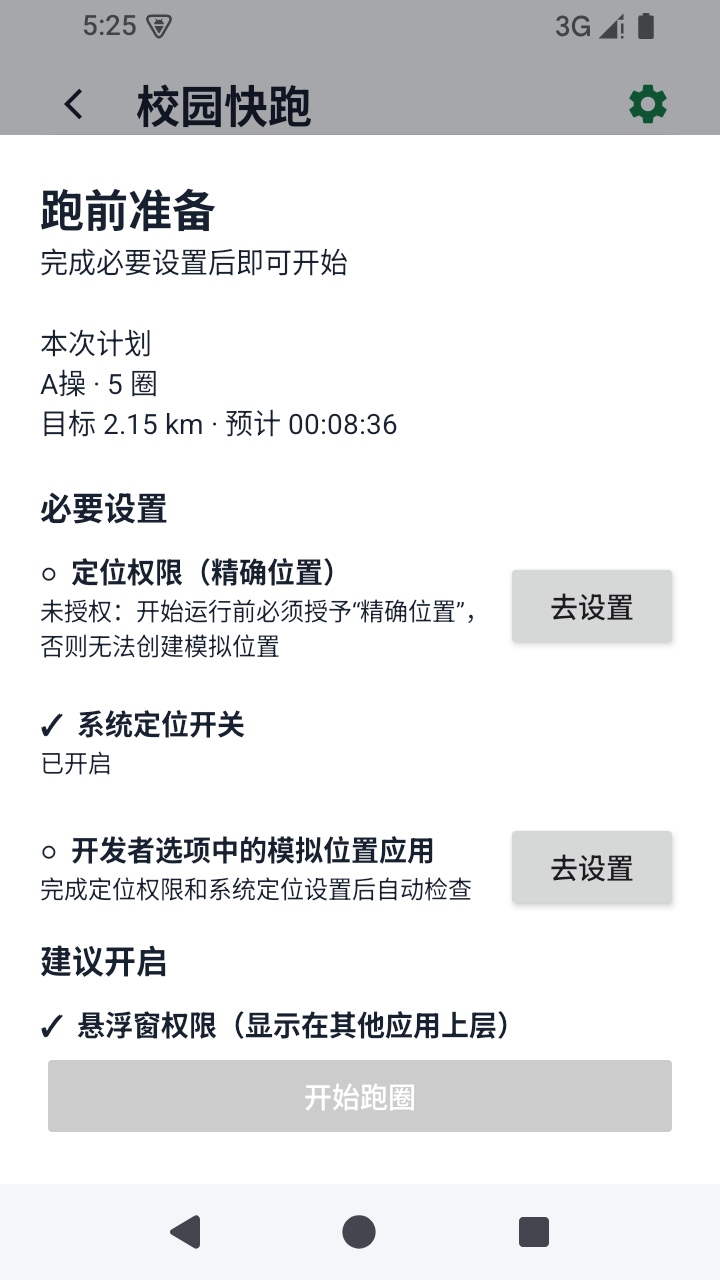
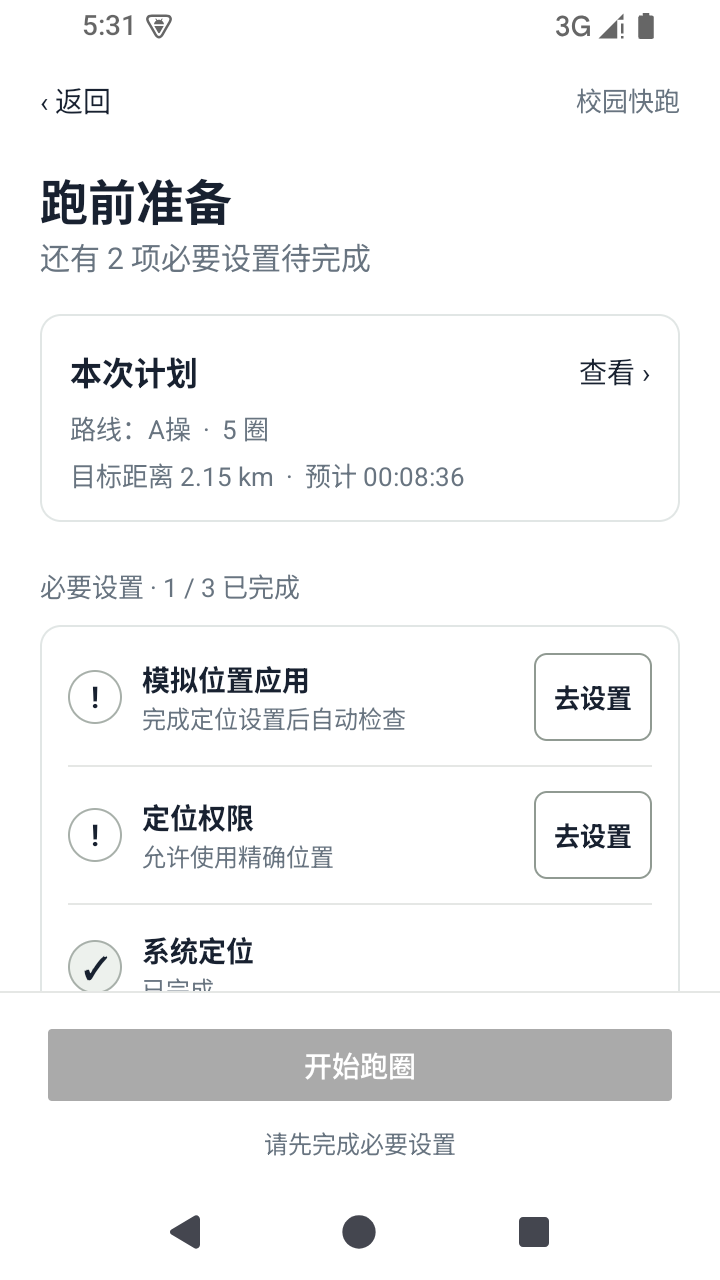
style: refine run readiness screen

diff --git a/app/src/main/java/org/localroute/app/ui/CampusRunActivity.java b/app/src/main/java/org/localroute/app/ui/CampusRunActivity.java
@@ -1,6 +1,9 @@
 package org.localroute.app.ui;
 
 import android.Manifest;
+import android.app.Dialog;
+import android.graphics.drawable.GradientDrawable;
+import android.view.Window;
 import android.animation.Animator;
 import android.animation.AnimatorListenerAdapter;
 import android.animation.ValueAnimator;
@@ -158,7 +161,7 @@ public final class CampusRunActivity extends AppCompatActivity {
     /** 旧版单路线存储的迁移 ID；新路线使用 {@link RouteRepository#newRouteId()}。 */
     private static final String ROUTE_CUSTOM_ID = "custom";
 
-    @Nullable private BottomSheetDialog readinessDialog;
+    @Nullable private Dialog readinessDialog;
     @Nullable private PendingStart readinessPlan;
     private boolean readinessReturning;
     private boolean readinessPermissionRequested;
@@ -1381,18 +1384,26 @@ public final class CampusRunActivity extends AppCompatActivity {
     }
 
     private void showReadiness() {
-        if (readinessPlan == null) return;
-        BottomSheetDialog sheet = new BottomSheetDialog(this);
-        readinessDialog = sheet;
-        sheet.setOnDismissListener(d -> {
-            if (readinessDialog == sheet) {
+        if (readinessPlan == null || readinessDialog != null) return;
+        Dialog dialog = new Dialog(this, android.R.style.Theme_Material_Light_NoActionBar);
+        readinessDialog = dialog;
+        dialog.setOnDismissListener(d -> {
+            if (readinessDialog == dialog) {
                 readinessDialog = null;
                 readinessPlan = null;
                 readinessReturning = false;
             }
         });
-        sheet.show();
         renderReadiness();
+        dialog.show();
+        Window window = dialog.getWindow();
+        if (window != null) {
+            window.setLayout(ViewGroup.LayoutParams.MATCH_PARENT, ViewGroup.LayoutParams.MATCH_PARENT);
+            window.setStatusBarColor(Color.WHITE);
+            window.setNavigationBarColor(Color.WHITE);
+            WindowCompat.getInsetsController(window, window.getDecorView()).setAppearanceLightStatusBars(true);
+            WindowCompat.getInsetsController(window, window.getDecorView()).setAppearanceLightNavigationBars(true);
+        }
     }
 
     private TextView readinessText(String text, float size, boolean bold) {
@@ -1404,58 +1415,171 @@ public final class CampusRunActivity extends AppCompatActivity {
         return view;
     }
 
+    private GradientDrawable readinessBackground(int color, int stroke, int radius) {
+        GradientDrawable background = new GradientDrawable();
+        background.setColor(color);
+        background.setCornerRadius(dp(radius));
+        if (stroke != Color.TRANSPARENT) background.setStroke(dp(1), stroke);
+        return background;
+    }
+
+    private void readinessSpace(LinearLayout parent, int height) {
+        parent.addView(new View(this), new LinearLayout.LayoutParams(1, dp(height)));
+    }
+
+    private void readinessDivider(LinearLayout parent) {
+        View divider = new View(this);
+        divider.setBackgroundColor(0xffe5e7e5);
+        parent.addView(divider, new LinearLayout.LayoutParams(ViewGroup.LayoutParams.MATCH_PARENT, dp(1)));
+    }
+
     private void renderReadiness() {
         if (readinessDialog == null || readinessPlan == null) return;
         boolean ready = readinessPassed();
         PendingStart plan = readinessPlan;
+        List<SettingsInspector.Check> checks = SettingsInspector.inspect(this);
+        boolean mockOk = snapshot.isActive() && snapshot.singlePoint()
+                || readinessProbe == SettingsInspector.MockProbeResult.ALLOWED
+                || readinessProbe == SettingsInspector.MockProbeResult.ALLOWED_AFTER_CLEANUP;
+        int completed = mockOk ? 1 : 0;
+        for (SettingsInspector.Check check : checks) {
+            if ((check.item() == SetupItem.LOCATION_PERMISSION || check.item() == SetupItem.LOCATION_SWITCH)
+                    && check.status() == SettingsInspector.Status.OK) completed++;
+        }
+        int pending = 3 - completed;
+        double meters = plan.route.lapMeters() * plan.loops;
+        String distance = CampusFormat.kilometers(meters);
+        String time = CampusFormat.time((long) (meters / plan.speedKmh * 3600d));
+        int ink = ContextCompat.getColor(this, R.color.campus_ink);
+        int muted = ContextCompat.getColor(this, R.color.campus_muted);
+        int border = ContextCompat.getColor(this, R.color.fm_border);
+
+        LinearLayout root = new LinearLayout(this);
+        root.setOrientation(LinearLayout.VERTICAL);
+        root.setBackgroundColor(Color.WHITE);
+        ViewCompat.setOnApplyWindowInsetsListener(root, (view, insets) -> {
+            Insets bars = insets.getInsets(WindowInsetsCompat.Type.systemBars());
+            view.setPadding(bars.left, bars.top, bars.right, bars.bottom);
+            return insets;
+        });
+
+        LinearLayout header = new LinearLayout(this);
+        header.setGravity(Gravity.CENTER_VERTICAL);
+        header.setPadding(dp(20), 0, dp(20), 0);
+        TextView back = readinessText("‹ 返回", 14, false);
+        back.setGravity(Gravity.CENTER_VERTICAL);
+        back.setOnClickListener(v -> readinessDialog.dismiss());
+        header.addView(back, new LinearLayout.LayoutParams(0, dp(52), 1));
+        TextView section = readinessText("校园快跑", 13, false);
+        section.setTextColor(muted);
+        header.addView(section);
+        root.addView(header);
+
+        ScrollView scroll = new ScrollView(this);
+        scroll.setFillViewport(false);
         LinearLayout content = new LinearLayout(this);
         content.setOrientation(LinearLayout.VERTICAL);
-        int pad = Math.round(20 * getResources().getDisplayMetrics().density);
-        content.setPadding(pad, pad, pad, pad);
-        content.addView(readinessText("跑前准备", 22, true));
-        content.addView(readinessText(ready ? "准备就绪，可以开始" : "完成必要设置后即可开始", 14, false));
-        double meters = plan.route.lapMeters() * plan.loops;
-        TextView summary = readinessText("本次计划\n" + plan.route.name() + " · " + plan.loops
-                + " 圈\n目标 " + CampusFormat.kilometers(meters) + " km · 预计 "
-                + CampusFormat.time((long) (meters / plan.speedKmh * 3600d)), 14, false);
-        summary.setPadding(0, pad, 0, pad);
+        content.setPadding(dp(20), dp(6), dp(20), dp(20));
+        content.addView(readinessText("跑前准备", 24, true));
+        TextView subtitle = readinessText(ready ? "准备就绪，可以开始" : "还有 " + pending + " 项必要设置待完成", 15, false);
+        subtitle.setTextColor(muted);
+        content.addView(subtitle);
+        readinessSpace(content, 18);
+
+        LinearLayout summary = new LinearLayout(this);
+        summary.setOrientation(LinearLayout.VERTICAL);
+        summary.setPadding(dp(15), dp(14), dp(15), dp(14));
+        summary.setBackground(readinessBackground(Color.WHITE, border, 10));
+        LinearLayout summaryHead = new LinearLayout(this);
+        summaryHead.setGravity(Gravity.CENTER_VERTICAL);
+        TextView planTitle = readinessText("本次计划", 16, true);
+        summaryHead.addView(planTitle, new LinearLayout.LayoutParams(0, ViewGroup.LayoutParams.WRAP_CONTENT, 1));
+        TextView details = readinessText("查看 ›", 14, false);
+        details.setPadding(dp(8), dp(4), 0, dp(4));
+        details.setOnClickListener(v -> new com.google.android.material.dialog.MaterialAlertDialogBuilder(this)
+                .setTitle("本次计划")
+                .setMessage("路线：" + plan.route.name() + " · " + plan.loops + " 圈\n目标距离 "
+                        + distance + " km · 预计 " + time + "\n配速 "
+                        + CampusFormat.paceWithUnit(3600d / plan.speedKmh))
+                .setPositiveButton("完成", null).show());
+        summaryHead.addView(details);
+        summary.addView(summaryHead);
+        TextView planLine = readinessText("路线：" + plan.route.name() + "  ·  " + plan.loops + " 圈", 13, false);
+        planLine.setTextColor(muted);
+        planLine.setPadding(0, dp(4), 0, 0);
+        summary.addView(planLine);
+        TextView planTotal = readinessText("目标距离 " + distance + " km  ·  预计 " + time, 13, false);
+        planTotal.setTextColor(muted);
+        planTotal.setPadding(0, dp(4), 0, 0);
+        summary.addView(planTotal);
         content.addView(summary);
-        content.addView(readinessText("必要设置", 16, true));
-        for (SettingsInspector.Check check : SettingsInspector.inspect(this)) {
-            if (!check.item().blocking()) continue;
-            boolean ok = check.status() == SettingsInspector.Status.OK;
-            String detail = check.detail();
-            if (check.item() == SetupItem.MOCK_APP) {
-                ok = snapshot.isActive() && snapshot.singlePoint()
-                        || readinessProbe == SettingsInspector.MockProbeResult.ALLOWED
-                        || readinessProbe == SettingsInspector.MockProbeResult.ALLOWED_AFTER_CLEANUP;
-                if (ok) detail = "系统允许本应用模拟位置";
-                else if (readinessProbe == null) detail = "完成定位权限和系统定位设置后自动检查";
-                else if (readinessProbe == SettingsInspector.MockProbeResult.DENIED)
-                    detail = "请在开发者选项中选择 UNLOOP";
-                else detail = "定位服务无法创建模拟位置，请检查设备定位服务";
-            }
-            addReadinessRow(content, check.title(), detail, ok,
-                    () -> openReadinessSetting(check.item()));
+        readinessSpace(content, 22);
+        TextView requiredLabel = readinessText("必要设置 · " + completed + " / 3 已完成", 13, false);
+        requiredLabel.setTextColor(muted);
+        content.addView(requiredLabel);
+        readinessSpace(content, 10);
+        LinearLayout required = new LinearLayout(this);
+        required.setOrientation(LinearLayout.VERTICAL);
+        required.setPadding(dp(14), dp(2), dp(14), dp(2));
+        required.setBackground(readinessBackground(Color.WHITE, border, 10));
+        SetupItem[] order = {SetupItem.MOCK_APP, SetupItem.LOCATION_PERMISSION, SetupItem.LOCATION_SWITCH};
+        for (int i = 0; i < order.length; i++) {
+            SetupItem item = order[i];
+            SettingsInspector.Check found = null;
+            for (SettingsInspector.Check check : checks) if (check.item() == item) found = check;
+            if (found == null) continue;
+            boolean ok = item == SetupItem.MOCK_APP ? mockOk : found.status() == SettingsInspector.Status.OK;
+            String title = item == SetupItem.MOCK_APP ? "模拟位置应用"
+                    : item == SetupItem.LOCATION_PERMISSION ? "定位权限" : "系统定位";
+            String detail = ok ? "已完成" : item == SetupItem.MOCK_APP
+                    ? (readinessProbe == null ? "完成定位设置后自动检查" : readinessProbe == SettingsInspector.MockProbeResult.DENIED
+                    ? "在开发者选项中选择 UNLOOP" : "定位服务无法创建模拟位置")
+                    : item == SetupItem.LOCATION_PERMISSION ? "允许使用精确位置" : "打开系统定位服务";
+            addReadinessRow(required, title, detail, ok, () -> openReadinessSetting(item));
+            if (i < order.length - 1) readinessDivider(required);
         }
-        content.addView(readinessText("建议开启", 16, true));
-        for (SettingsInspector.Check check : SettingsInspector.inspect(this)) {
-            if (check.item().blocking()) continue;
-            addReadinessRow(content, check.title(), check.detail(),
-                    check.status() == SettingsInspector.Status.OK,
-                    () -> openReadinessSetting(check.item()));
-        }
+        content.addView(required);
+        readinessSpace(content, 22);
+        TextView optionalLabel = readinessText("建议开启", 13, false);
+        optionalLabel.setTextColor(muted);
+        content.addView(optionalLabel);
+        readinessSpace(content, 10);
+        LinearLayout optional = new LinearLayout(this);
+        optional.setOrientation(LinearLayout.VERTICAL);
+        optional.setPadding(dp(14), dp(2), dp(14), dp(2));
+        optional.setBackground(readinessBackground(0xfff7f8f7, border, 10));
         PowerManager power = (PowerManager) getSystemService(POWER_SERVICE);
         boolean unrestricted = power != null && power.isIgnoringBatteryOptimizations(getPackageName());
-        addReadinessRow(content, "后台运行", unrestricted ? "已允许不受电池优化限制"
-                        : "调整电池优化设置有助于保持后台运行", unrestricted,
+        addReadinessRow(optional, "后台运行", unrestricted ? "已允许不受电池优化限制" : "调整电池优化，减少后台暂停", unrestricted,
                 () -> openReadinessIntent(new Intent(Settings.ACTION_IGNORE_BATTERY_OPTIMIZATION_SETTINGS)));
+        for (SettingsInspector.Check check : checks) {
+            if (check.item().blocking()) continue;
+            readinessDivider(optional);
+            boolean ok = check.status() == SettingsInspector.Status.OK;
+            String title = check.item() == SetupItem.OVERLAY ? "悬浮窗权限" : "通知权限";
+            String detail = ok ? "已完成" : check.item() == SetupItem.OVERLAY
+                    ? "在其他应用上控制跑圈" : "在通知栏查看和控制跑圈";
+            addReadinessRow(optional, title, detail, ok, () -> openReadinessSetting(check.item()));
+        }
+        content.addView(optional);
+        readinessSpace(content, 12);
+        TextView note = readinessText("从系统设置返回后，状态会自动更新。", 12, false);
+        note.setTextColor(muted);
+        content.addView(note);
+        scroll.addView(content);
+        root.addView(scroll, new LinearLayout.LayoutParams(ViewGroup.LayoutParams.MATCH_PARENT, 0, 1));
+        readinessDivider(root);
+
+        LinearLayout footer = new LinearLayout(this);
+        footer.setOrientation(LinearLayout.VERTICAL);
+        footer.setPadding(dp(20), dp(12), dp(20), dp(12));
         Button start = new Button(this);
+        start.setAllCaps(false);
         start.setText("开始跑圈");
         start.setBackgroundTintList(new ColorStateList(
                 new int[][]{new int[]{-android.R.attr.state_enabled}, new int[]{}},
-                new int[]{Color.LTGRAY, ContextCompat.getColor(this, R.color.campus_mint_dark)}));
-        start.setTextColor(ColorStateList.valueOf(Color.WHITE));
+                new int[]{0xffaaaaaa, ContextCompat.getColor(this, R.color.campus_mint_dark)}));
+        start.setTextColor(Color.WHITE);
         start.setEnabled(ready);
         start.setOnClickListener(v -> {
             if (!readinessPassed()) { renderReadiness(); return; }
@@ -1463,44 +1587,40 @@ public final class CampusRunActivity extends AppCompatActivity {
             readinessDialog.dismiss();
             ensureMockReadyForRoute(selected.route, selected.speedKmh, selected.loops);
         });
-        ScrollView scroll = new ScrollView(this);
-        scroll.setFillViewport(false);
-        scroll.addView(content);
-        LinearLayout root = new LinearLayout(this);
-        root.setOrientation(LinearLayout.VERTICAL);
-        root.setBackgroundColor(ContextCompat.getColor(this, R.color.fm_surface));
-        int height = (int) (getResources().getDisplayMetrics().heightPixels * 0.82f);
-        root.setLayoutParams(new ViewGroup.LayoutParams(ViewGroup.LayoutParams.MATCH_PARENT, height));
-        root.addView(scroll, new LinearLayout.LayoutParams(ViewGroup.LayoutParams.MATCH_PARENT, 0, 1));
-        LinearLayout footer = new LinearLayout(this);
-        footer.setPadding(pad, 0, pad, pad);
-        footer.addView(start, new LinearLayout.LayoutParams(ViewGroup.LayoutParams.MATCH_PARENT,
-                ViewGroup.LayoutParams.WRAP_CONTENT));
+        footer.addView(start, new LinearLayout.LayoutParams(ViewGroup.LayoutParams.MATCH_PARENT, dp(48)));
+        TextView footerHint = readinessText(ready ? "路线和目标已保留" : "请先完成必要设置", 12, false);
+        footerHint.setTextColor(muted);
+        footerHint.setGravity(Gravity.CENTER);
+        footerHint.setPadding(0, dp(6), 0, 0);
+        footer.addView(footerHint);
         root.addView(footer);
         readinessDialog.setContentView(root);
-        View bottom = readinessDialog.findViewById(com.google.android.material.R.id.design_bottom_sheet);
-        if (bottom != null) {
-            com.google.android.material.bottomsheet.BottomSheetBehavior.from(bottom)
-                    .setState(com.google.android.material.bottomsheet.BottomSheetBehavior.STATE_EXPANDED);
-        }
     }
 
     private void addReadinessRow(LinearLayout parent, String title, String detail, boolean ok, Runnable action) {
         LinearLayout row = new LinearLayout(this);
         row.setOrientation(LinearLayout.HORIZONTAL);
         row.setGravity(Gravity.CENTER_VERTICAL);
-        int spacing = Math.round(10 * getResources().getDisplayMetrics().density);
-        row.setPadding(0, spacing, 0, spacing);
+        row.setPadding(0, dp(12), 0, dp(12));
+        TextView icon = readinessText(ok ? "✓" : "!", 15, true);
+        icon.setGravity(Gravity.CENTER);
+        icon.setBackground(readinessBackground(ok ? 0xffedf1ed : Color.WHITE, 0xffa8b0aa, 30));
+        row.addView(icon, new LinearLayout.LayoutParams(dp(27), dp(27)));
         LinearLayout labels = new LinearLayout(this);
         labels.setOrientation(LinearLayout.VERTICAL);
-        labels.addView(readinessText((ok ? "✓  " : "○  ") + title, 14, true));
-        labels.addView(readinessText(detail, 12, false));
+        labels.setPadding(dp(10), 0, dp(4), 0);
+        labels.addView(readinessText(title, 14, true));
+        TextView caption = readinessText(detail, 12, false);
+        caption.setTextColor(ContextCompat.getColor(this, R.color.campus_muted));
+        labels.addView(caption);
         row.addView(labels, new LinearLayout.LayoutParams(0, ViewGroup.LayoutParams.WRAP_CONTENT, 1));
         if (!ok) {
-            Button button = new Button(this);
-            button.setText("去设置");
+            TextView button = readinessText("去设置", 13, true);
+            button.setGravity(Gravity.CENTER);
+            button.setPadding(dp(10), 0, dp(10), 0);
+            button.setBackground(readinessBackground(Color.WHITE, 0xff909a92, 6));
             button.setOnClickListener(v -> action.run());
-            row.addView(button);
+            row.addView(button, new LinearLayout.LayoutParams(ViewGroup.LayoutParams.WRAP_CONTENT, dp(44)));
         }
         parent.addView(row);
     }
